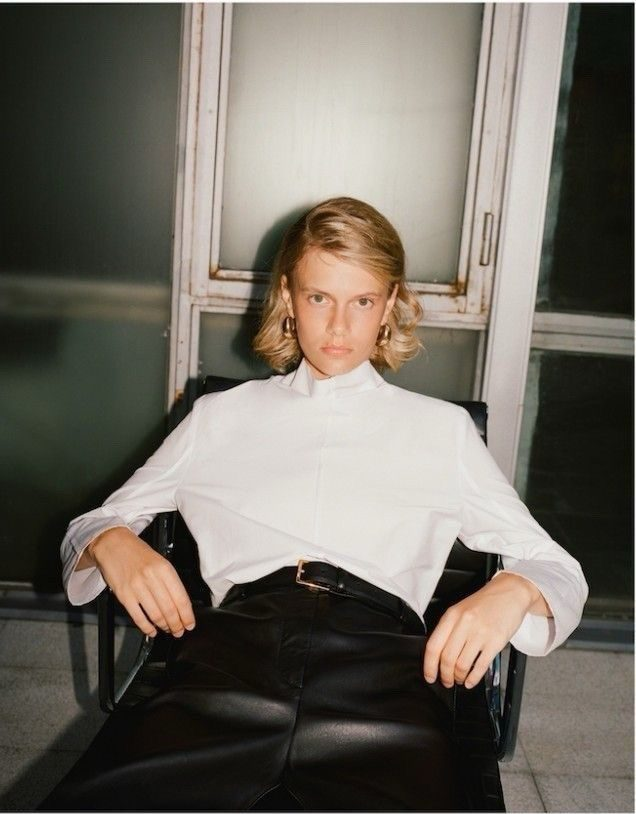
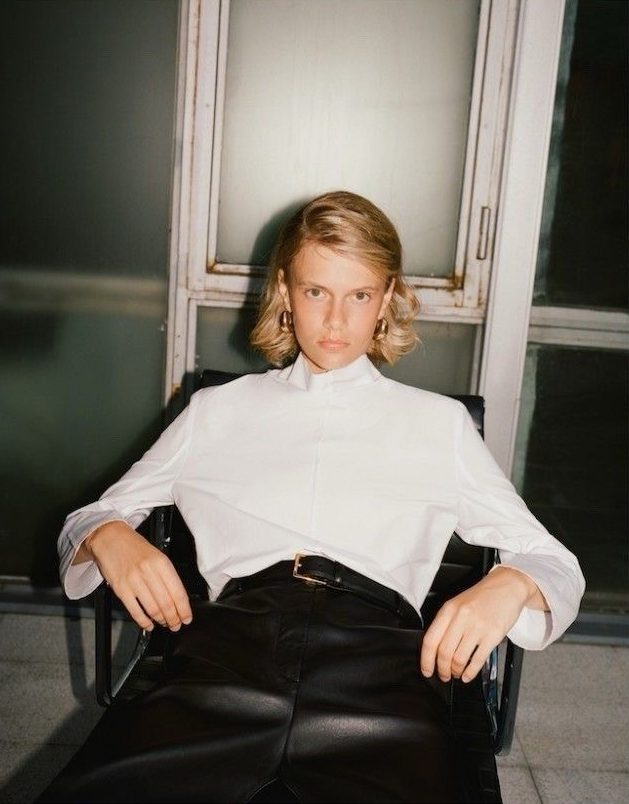
Add files via upload

diff --git a/index.html b/index.html
@@ -139,7 +139,7 @@
       </div>
     </div>
     <div class="cover-imgs">
-      <img src="2391.jpg" width="636" height="814" alt="Seated in a chair, white shirt">
+      <img src="2391.jpg" width="629" height="804" alt="Seated in a chair, white shirt">
       <img src="2387.jpg" width="733" height="1100" alt="Standing in a window corner">
     </div>
   </div>
@@ -211,7 +211,7 @@
       <figure><img src="2263.jpg" width="778" height="1100" alt=""></figure>
       <figure><img src="2266.jpg" width="895" height="1100" alt=""></figure>
       <figure><img src="2261.jpg" width="937" height="1100" alt=""></figure>
-      <figure><img src="2264.jpg" width="802" height="1070" alt=""></figure>
+      <figure><img src="2264.jpg" width="795" height="1064" alt=""></figure>
       <figure><img src="2262.jpg" width="803" height="1100" alt=""></figure>
       <figure><img src="2392.jpg" width="733" height="1100" alt=""></figure>
       <figure><img src="2385.jpg" width="843" height="1100" alt=""></figure>
@@ -229,7 +229,7 @@
     </div>
     <div class="board">
       <figure><img src="2258.jpg" width="880" height="1100" alt=""></figure>
-      <figure><img src="2391.jpg" width="636" height="814" alt=""></figure>
+      <figure><img src="2391.jpg" width="629" height="804" alt=""></figure>
       <figure><img src="2384.jpg" width="700" height="990" alt=""></figure>
       <figure><img src="2260.jpg" width="795" height="1100" alt=""></figure>
       <figure><img src="2265.jpg" width="1100" height="849" alt=""></figure>
@@ -245,10 +245,11 @@
         <li><span class="en">The most alive frames happen when you are busy with something of your own.</span><span class="ru">Самые живые кадры — когда занят чем-то своим.</span></li>
       </ul>
     </div>
-    <div class="board">
+    <div class="board" data-per="2">
       <figure><img src="2257.jpg" width="786" height="1100" alt=""></figure>
       <figure><img src="2267.jpg" width="733" height="1100" alt=""></figure>
       <figure><img src="2386.jpg" width="792" height="1100" alt=""></figure>
+      <figure><img src="2388.jpg" width="886" height="1100" alt=""></figure>
     </div>
   </div>
 
@@ -282,7 +283,6 @@
     </div>
     <div class="board">
       <figure><img src="2387.jpg" width="733" height="1100" alt=""></figure>
-      <figure><img src="2388.jpg" width="886" height="1100" alt=""></figure>
       <figure><img src="2389.jpg" width="825" height="1100" alt=""></figure>
       <figure><img src="2394.jpg" width="733" height="1100" alt=""></figure>
     </div>
@@ -381,19 +381,20 @@
   function per(){var w=window.innerWidth;return w<760?2:3;}
   var last=0;
   function layout(){
-    var k=per(); if(k===last) return; last=k;
+    var K=per(); if(K===last) return; last=K;
     boards.forEach(function(b,i){
-      var figs=data[i], n=figs.length, rows=Math.max(1,Math.floor(n/k));
+      var k=+b.getAttribute('data-per')||K;
+      var figs=data[i], n=figs.length, rows=Math.max(1,Math.round(n/k));
       b.innerHTML=''; var idx=0;
       for(var r=0;r<rows;r++){
         var cnt=Math.floor(n/rows)+(r<n%rows?1:0);
         var row=document.createElement('div'); row.className='row';
-        for(var j=0;j<cnt;j++){var f=figs[idx++]; f.style.flex=ratio(f.querySelector('img'))+' 1 0'; row.appendChild(f);}
+        for(var j=0;j<cnt;j++){var f=figs[idx++]; f.style.flex=(ratio(f.querySelector('img'))*100)+' 1 0'; row.appendChild(f);}
         b.appendChild(row);
       }
     });
   }
-  [].slice.call(document.querySelectorAll('.cover-imgs img')).forEach(function(img){img.style.flex=ratio(img)+' 1 0';});
+  [].slice.call(document.querySelectorAll('.cover-imgs img')).forEach(function(img){img.style.flex=(ratio(img)*100)+' 1 0';});
   layout(); window.addEventListener('resize',layout);
 })();
 </script>
